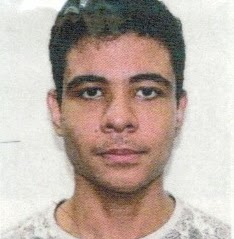
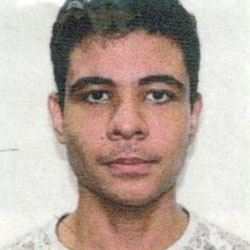
Collaborators update

diff --git a/collaborators.md b/collaborators.md
@@ -48,6 +48,11 @@ Position\
 Position\
 {% include button.html text="CV" icon="lattes" link="http://lattes.cnpq.br/4358330948060920" %}
 
+{% include figure.html image="/assets/team/mfernandes.jpg" position="left" width="150" %}
+**Matheus Fernandes Cabral**\
+Position\
+{% include button.html text="CV" icon="lattes" link="http://lattes.cnpq.br/4338865827956125" %}
+
 {% include figure.html image="/assets/team/breno.jpg" position="left" width="150" %}
 **Breno Alves de Oliveira**\
 Position\
@@ -83,12 +88,12 @@ Position\
 Position\
 {% include button.html text="CV" icon="lattes" link="http://lattes.cnpq.br/1516873775273602" %}
 
-Alice Maria Barreto Vieira
-Maria Célia Tavares
-Diogo Rocco Crivaro Nunes
-João Pedro Gandarela de Souza
-Tainá da Silva Lima
-Marcos Paulo Moraes
+Alice Maria Barreto Vieira\
+Maria Célia Tavares\
+Diogo Rocco Crivaro Nunes\
+João Pedro Gandarela de Souza\
+Tainá da Silva Lima\
+Marcos Paulo Moraes\
 Ana Cláudia Ribeiro dos Santos
 
 
